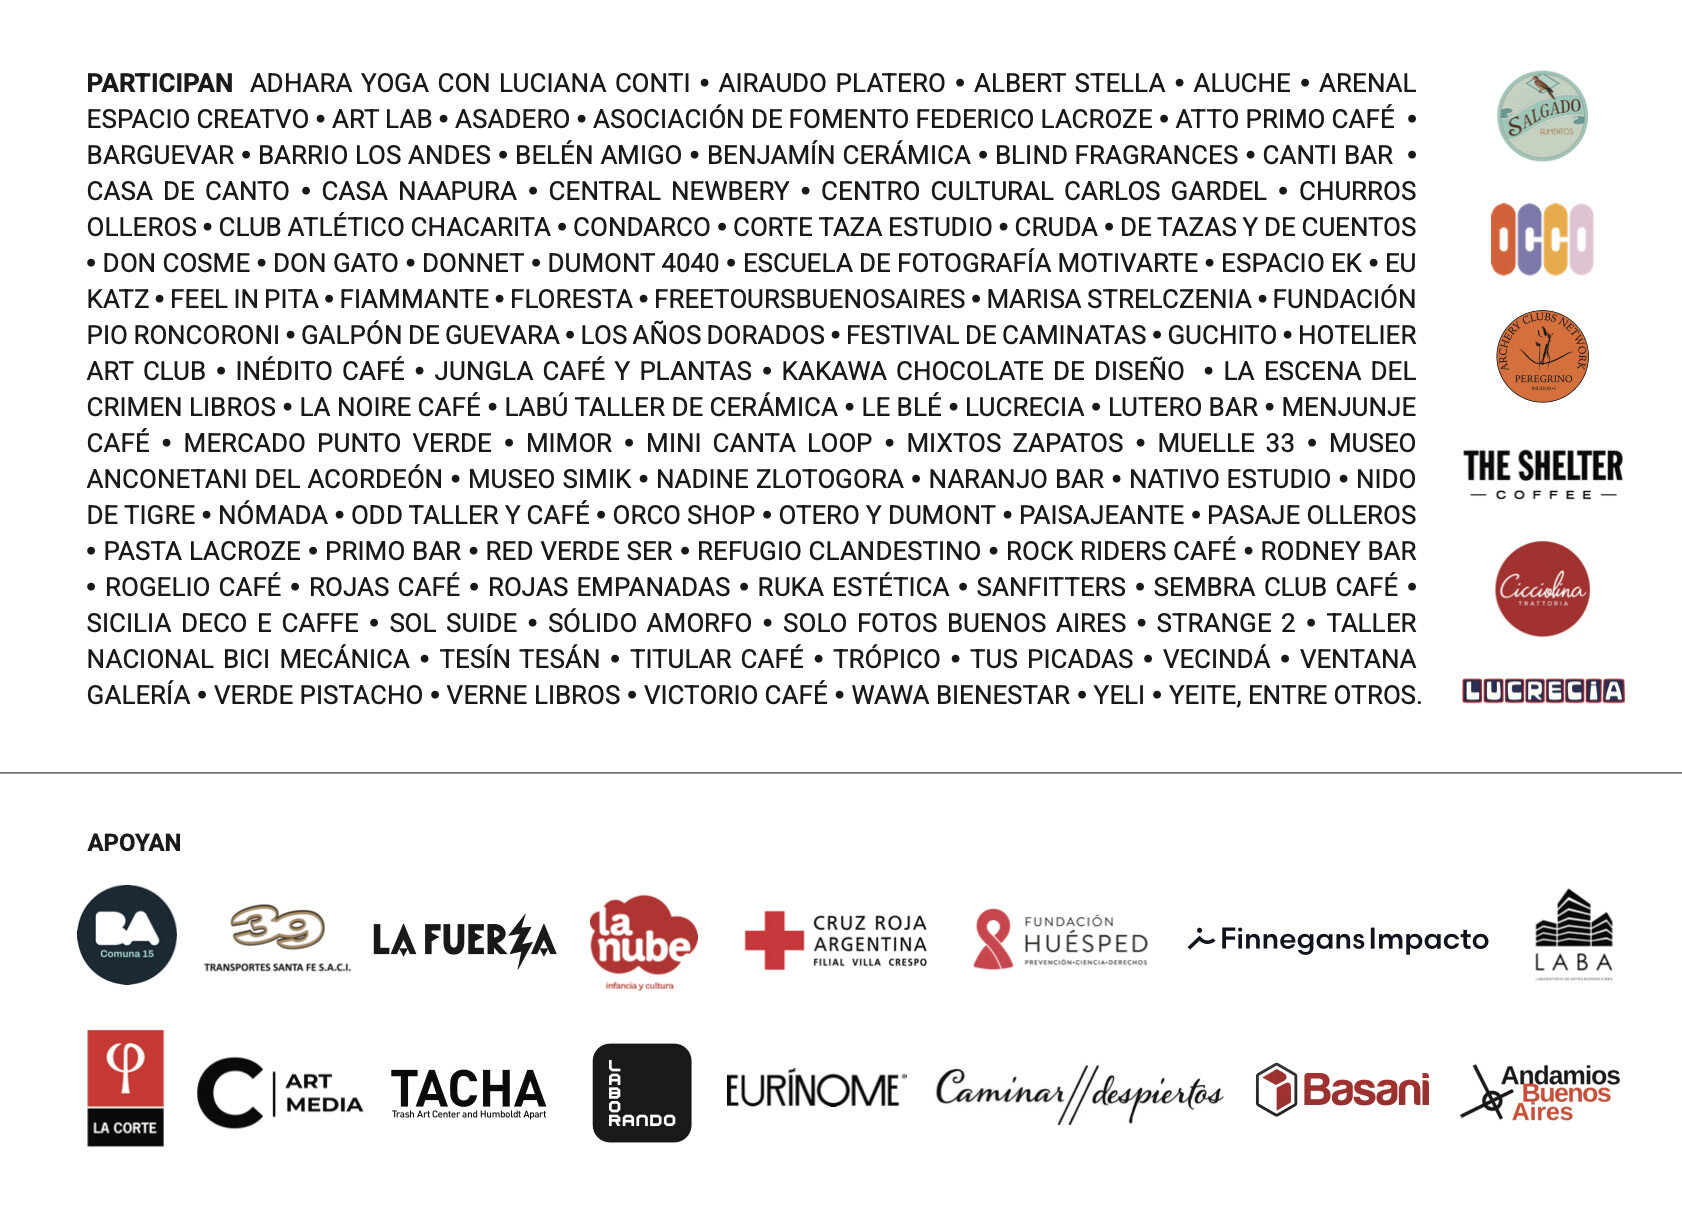
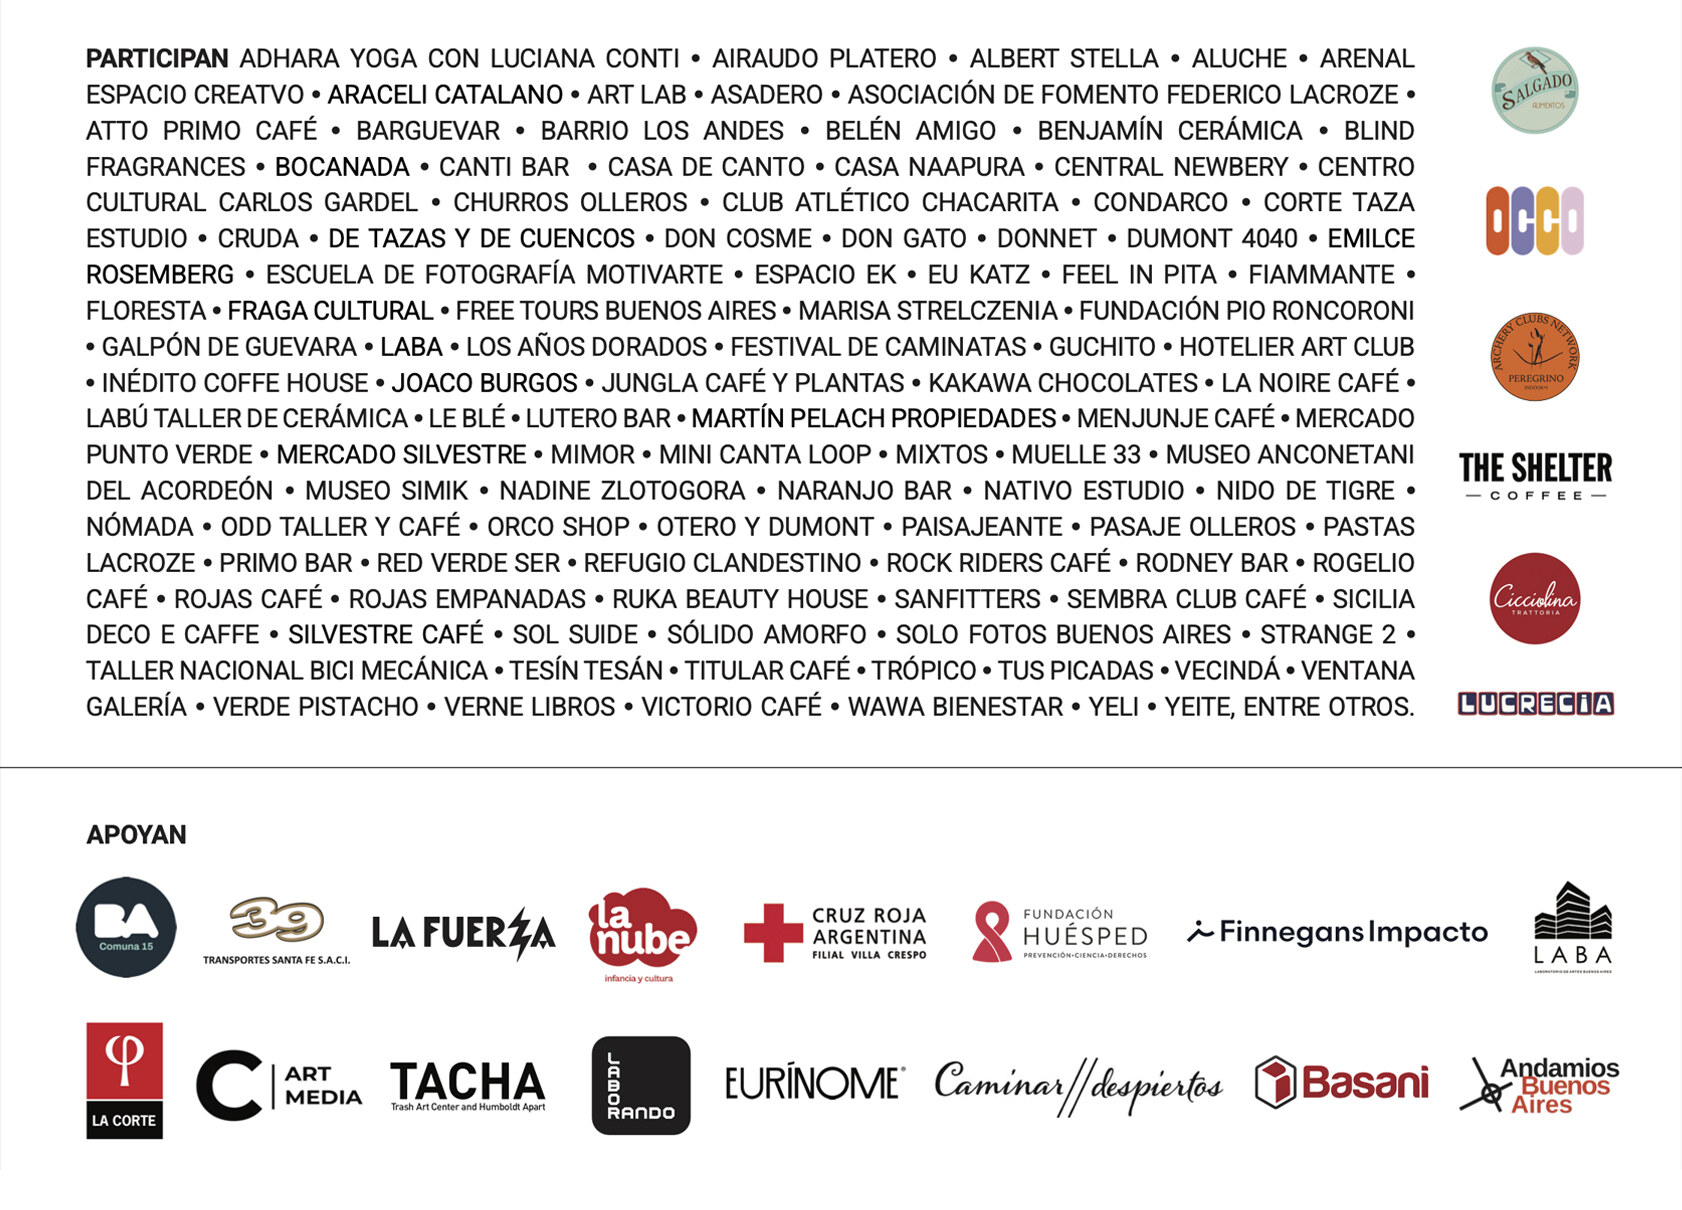
Reemplazar la imagen del footer con la lista actualizada de auspiciantes
Claude-Session: https://claude.ai/code/session_011GYLVBftXQWiYW6FoHVgMM

diff --git a/agenda.html b/agenda.html
@@ -43,7 +43,7 @@
 
 <footer class="agenda-footer">
   <div class="agenda-footer__inner">
-    <img src="images/footer.jpg?v=2" alt="Participan y apoyan" class="agenda-footer__img" style="display:block; width:100%; height:auto;">
+    <img src="images/footer.jpg?v=3" alt="Participan y apoyan" class="agenda-footer__img" style="display:block; width:100%; height:auto;">
   </div>
 </footer>
 
